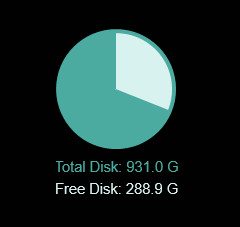
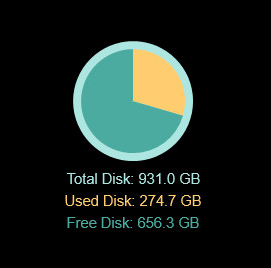
Updated example code and .rmskin for Roundline meter.

Changed region(s): [[0.2333, 0.1233, 0.7583, 0.7709], [0.2333, 0.8018, 0.7583, 0.8634]]

diff --git a/source/manual-beta/meters/roundline.html b/source/manual-beta/meters/roundline.html
@@ -103,70 +103,105 @@ Information=Example of the Roundline meter
 License=Creative Commons Attribution-Non-Commercial-Share Alike 3.0
 Version=1.0
 
-[MeasureFreeDisk]
-Measure=FreeDiskSpace
-Drive=C:
-InvertMeasure=1
+[Variables]
+TotalColor=173,230,224,255
+FreeColor=75,171,161,255
+UsedColor=255,205,112,255
 
 [MeasureTotalDisk]
 Measure=FreeDiskSpace
 Drive=C:
 Total=1
 
+[MeasureUsedDisk]
+Measure=FreeDiskSpace
+Drive=C:
+InvertMeasure=1
+
+[MeasureFreeDisk]
+Measure=FreeDiskSpace
+Drive=C:
+
 [MeterTotalDisk]
 Meter=Roundline
 MeasureName=MeasureTotalDisk
-X=0
+X=10
 Y=0
 W=120
 H=120
 StartAngle=4.712
 RotationAngle=6.283
 LineLength=60
-LineColor=40,92,87,255
+LineColor=#TotalColor#
+Solid=1
+AntiAlias=1
+
+[MeterUsedDisk]
+Meter=Roundline
+MeasureName=MeasureUsedDisk
+X=10
+Y=0
+W=120
+H=120
+StartAngle=4.712
+RotationAngle=6.283
+LineLength=52
+LineColor=#UsedColor#
 Solid=1
 AntiAlias=1
 
 [MeterFreeDisk]
 Meter=Roundline
 MeasureName=MeasureFreeDisk
-X=0
+X=10
 Y=0
 W=120
 H=120
 StartAngle=4.712
-RotationAngle=6.283
-LineLength=56
-LineColor=216,242,240,255
+RotationAngle=-6.283
+LineLength=52
+LineColor=#FreeColor#
 Solid=1
 AntiAlias=1
 
 [MeterTotalText]
 Meter=String
 MeasureName=MeasureTotalDisk
-X=60
+X=70
 Y=130
 FontSize=11
-FontColor=36,82,77,255
+FontColor=#TotalColor#
 StringAlign=Center
 AntiAlias=1
 AutoScale=1
-Text=Total Disk: %1
+Text=Total Disk: %1B
+
+[MeterUsedText]
+Meter=String
+MeasureName=MeasureUsedDisk
+X=70
+Y=6R
+FontSize=11
+FontColor=#UsedColor#
+StringAlign=Center
+AntiAlias=1
+AutoScale=1
+Text=Used Disk: %1B
 
 [MeterFreeText]
 Meter=String
 MeasureName=MeasureFreeDisk
-X=60
+X=70
 Y=6R
 FontSize=11
-FontColor=216,242,240,255
+FontColor=#FreeColor#
 StringAlign=Center
 AntiAlias=1
 AutoScale=1
-Text=Free Disk: %1
+Text=Free Disk: %1B
 ```
 
 <div class="exampleprev">
 	<p><img src="!img/example-meters/ExampleMeterRoundline.jpg"/></p>
-	<p>An example skin demontrating a Roundline meter.</p>
+	<p>An example skin demonstrating a Roundline meter.</p>
 </div>

diff --git a/source/manual/meters/roundline.html b/source/manual/meters/roundline.html
@@ -103,70 +103,105 @@ Information=Example of the Roundline meter
 License=Creative Commons Attribution-Non-Commercial-Share Alike 3.0
 Version=1.0
 
-[MeasureFreeDisk]
-Measure=FreeDiskSpace
-Drive=C:
-InvertMeasure=1
+[Variables]
+TotalColor=173,230,224,255
+FreeColor=75,171,161,255
+UsedColor=255,205,112,255
 
 [MeasureTotalDisk]
 Measure=FreeDiskSpace
 Drive=C:
 Total=1
 
+[MeasureUsedDisk]
+Measure=FreeDiskSpace
+Drive=C:
+InvertMeasure=1
+
+[MeasureFreeDisk]
+Measure=FreeDiskSpace
+Drive=C:
+
 [MeterTotalDisk]
 Meter=Roundline
 MeasureName=MeasureTotalDisk
-X=0
+X=10
 Y=0
 W=120
 H=120
 StartAngle=4.712
 RotationAngle=6.283
 LineLength=60
-LineColor=40,92,87,255
+LineColor=#TotalColor#
+Solid=1
+AntiAlias=1
+
+[MeterUsedDisk]
+Meter=Roundline
+MeasureName=MeasureUsedDisk
+X=10
+Y=0
+W=120
+H=120
+StartAngle=4.712
+RotationAngle=6.283
+LineLength=52
+LineColor=#UsedColor#
 Solid=1
 AntiAlias=1
 
 [MeterFreeDisk]
 Meter=Roundline
 MeasureName=MeasureFreeDisk
-X=0
+X=10
 Y=0
 W=120
 H=120
 StartAngle=4.712
-RotationAngle=6.283
-LineLength=56
-LineColor=216,242,240,255
+RotationAngle=-6.283
+LineLength=52
+LineColor=#FreeColor#
 Solid=1
 AntiAlias=1
 
 [MeterTotalText]
 Meter=String
 MeasureName=MeasureTotalDisk
-X=60
+X=70
 Y=130
 FontSize=11
-FontColor=36,82,77,255
+FontColor=#TotalColor#
 StringAlign=Center
 AntiAlias=1
 AutoScale=1
-Text=Total Disk: %1
+Text=Total Disk: %1B
+
+[MeterUsedText]
+Meter=String
+MeasureName=MeasureUsedDisk
+X=70
+Y=6R
+FontSize=11
+FontColor=#UsedColor#
+StringAlign=Center
+AntiAlias=1
+AutoScale=1
+Text=Used Disk: %1B
 
 [MeterFreeText]
 Meter=String
 MeasureName=MeasureFreeDisk
-X=60
+X=70
 Y=6R
 FontSize=11
-FontColor=216,242,240,255
+FontColor=#FreeColor#
 StringAlign=Center
 AntiAlias=1
 AutoScale=1
-Text=Free Disk: %1
+Text=Free Disk: %1B
 ```
 
 <div class="exampleprev">
 	<p><img src="!img/example-meters/ExampleMeterRoundline.jpg"/></p>
-	<p>An example skin demontrating a Roundline meter.</p>
+	<p>An example skin demonstrating a Roundline meter.</p>
 </div>
